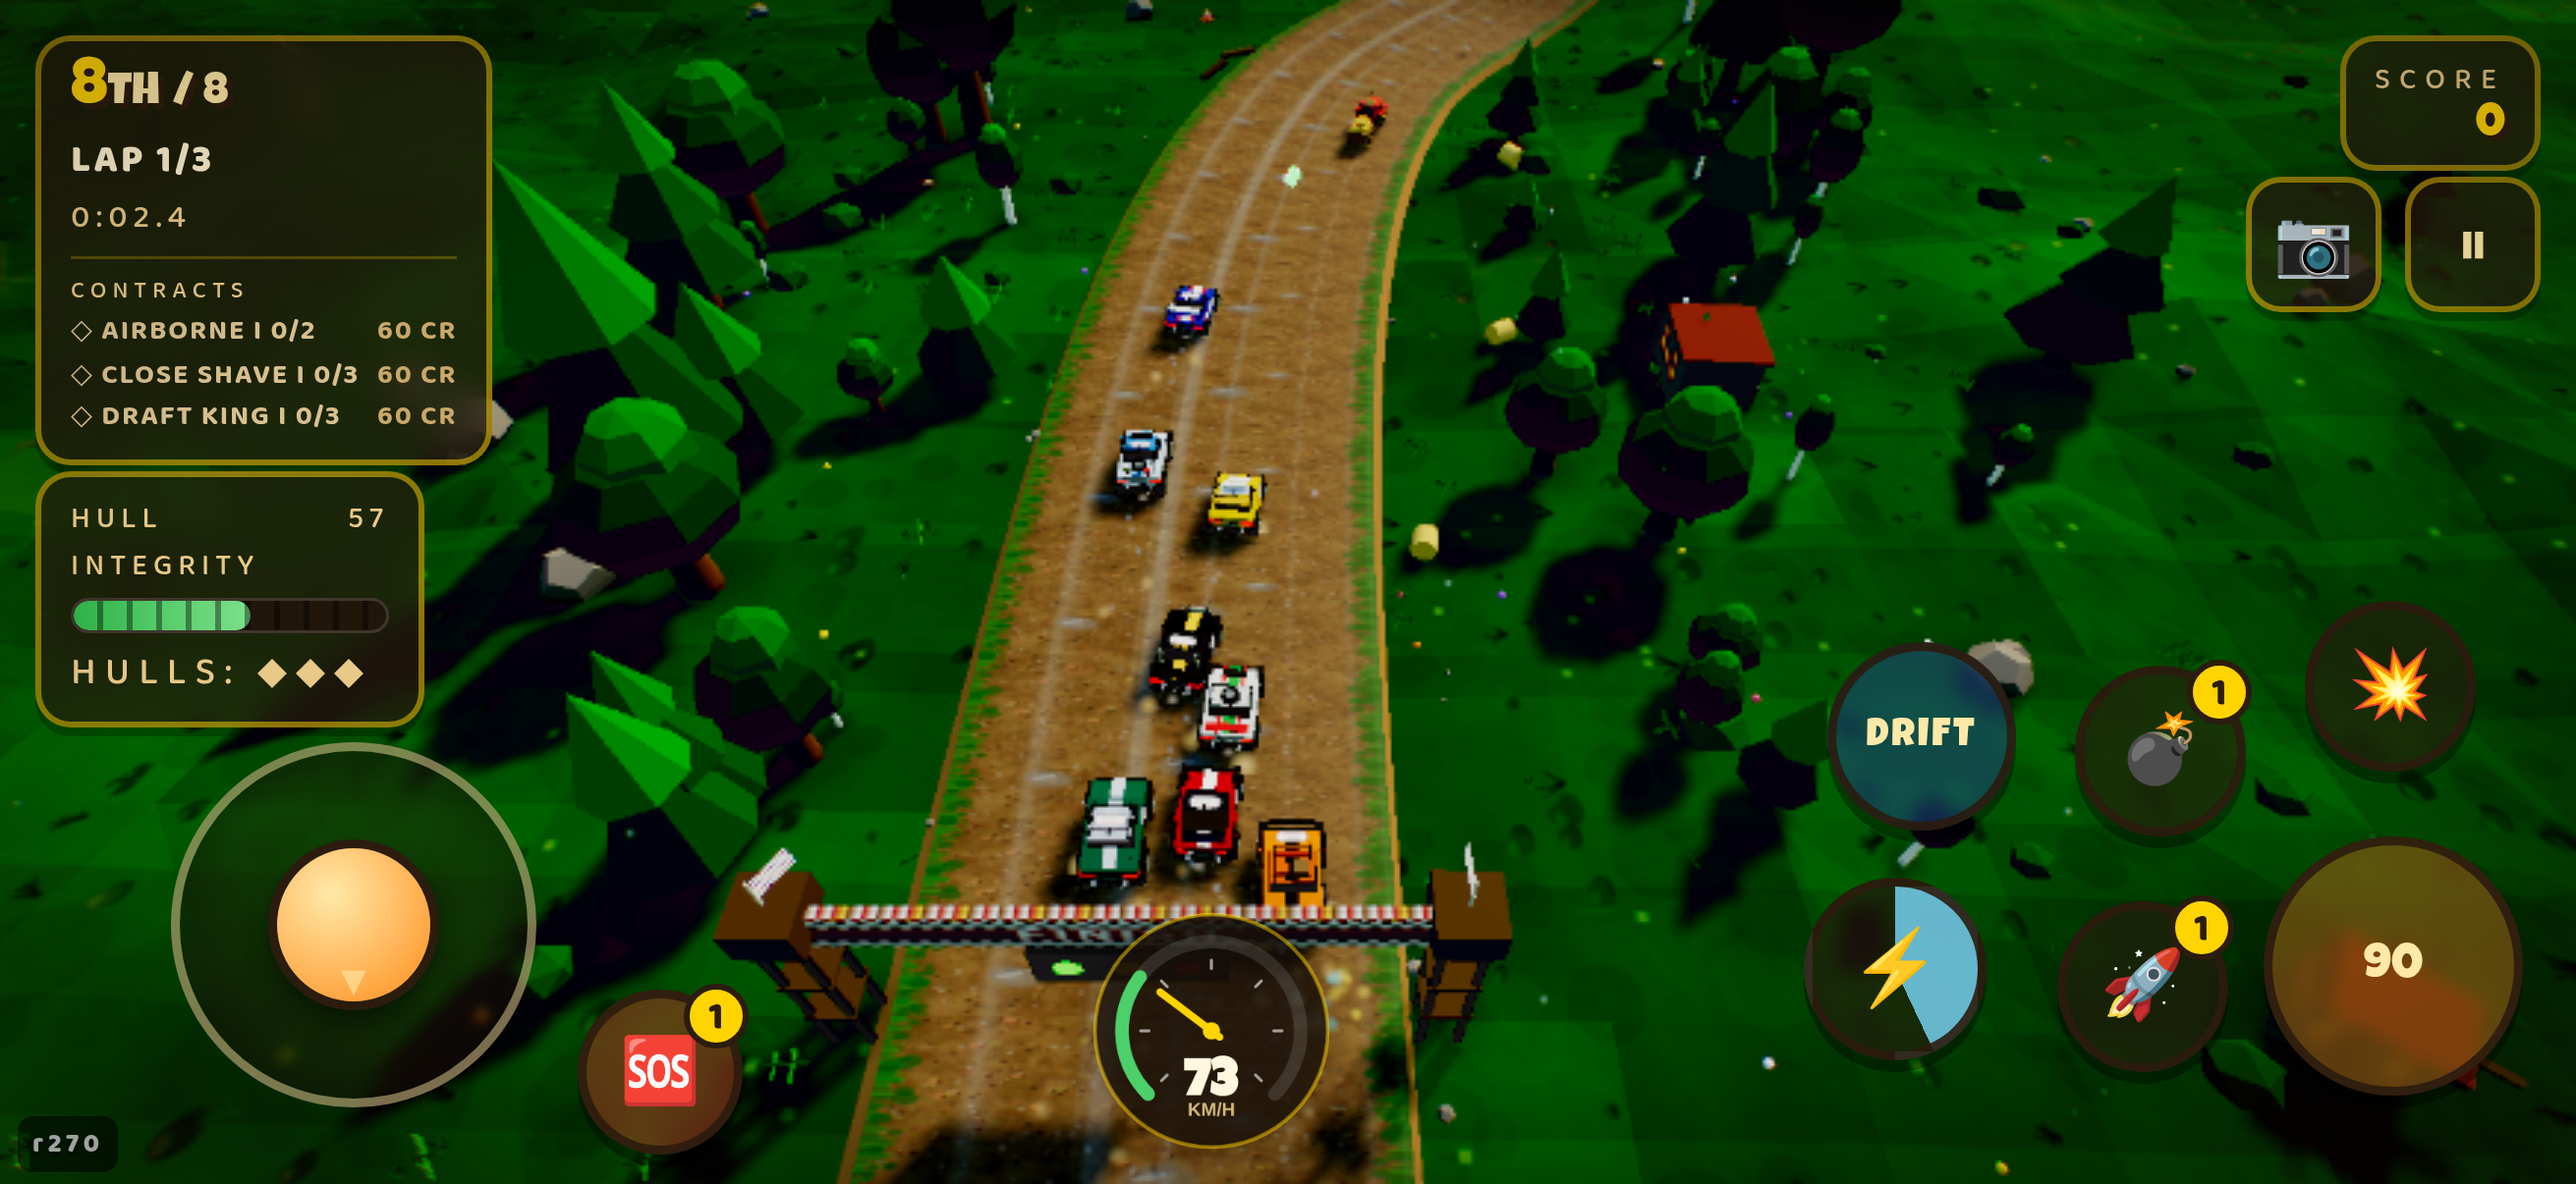
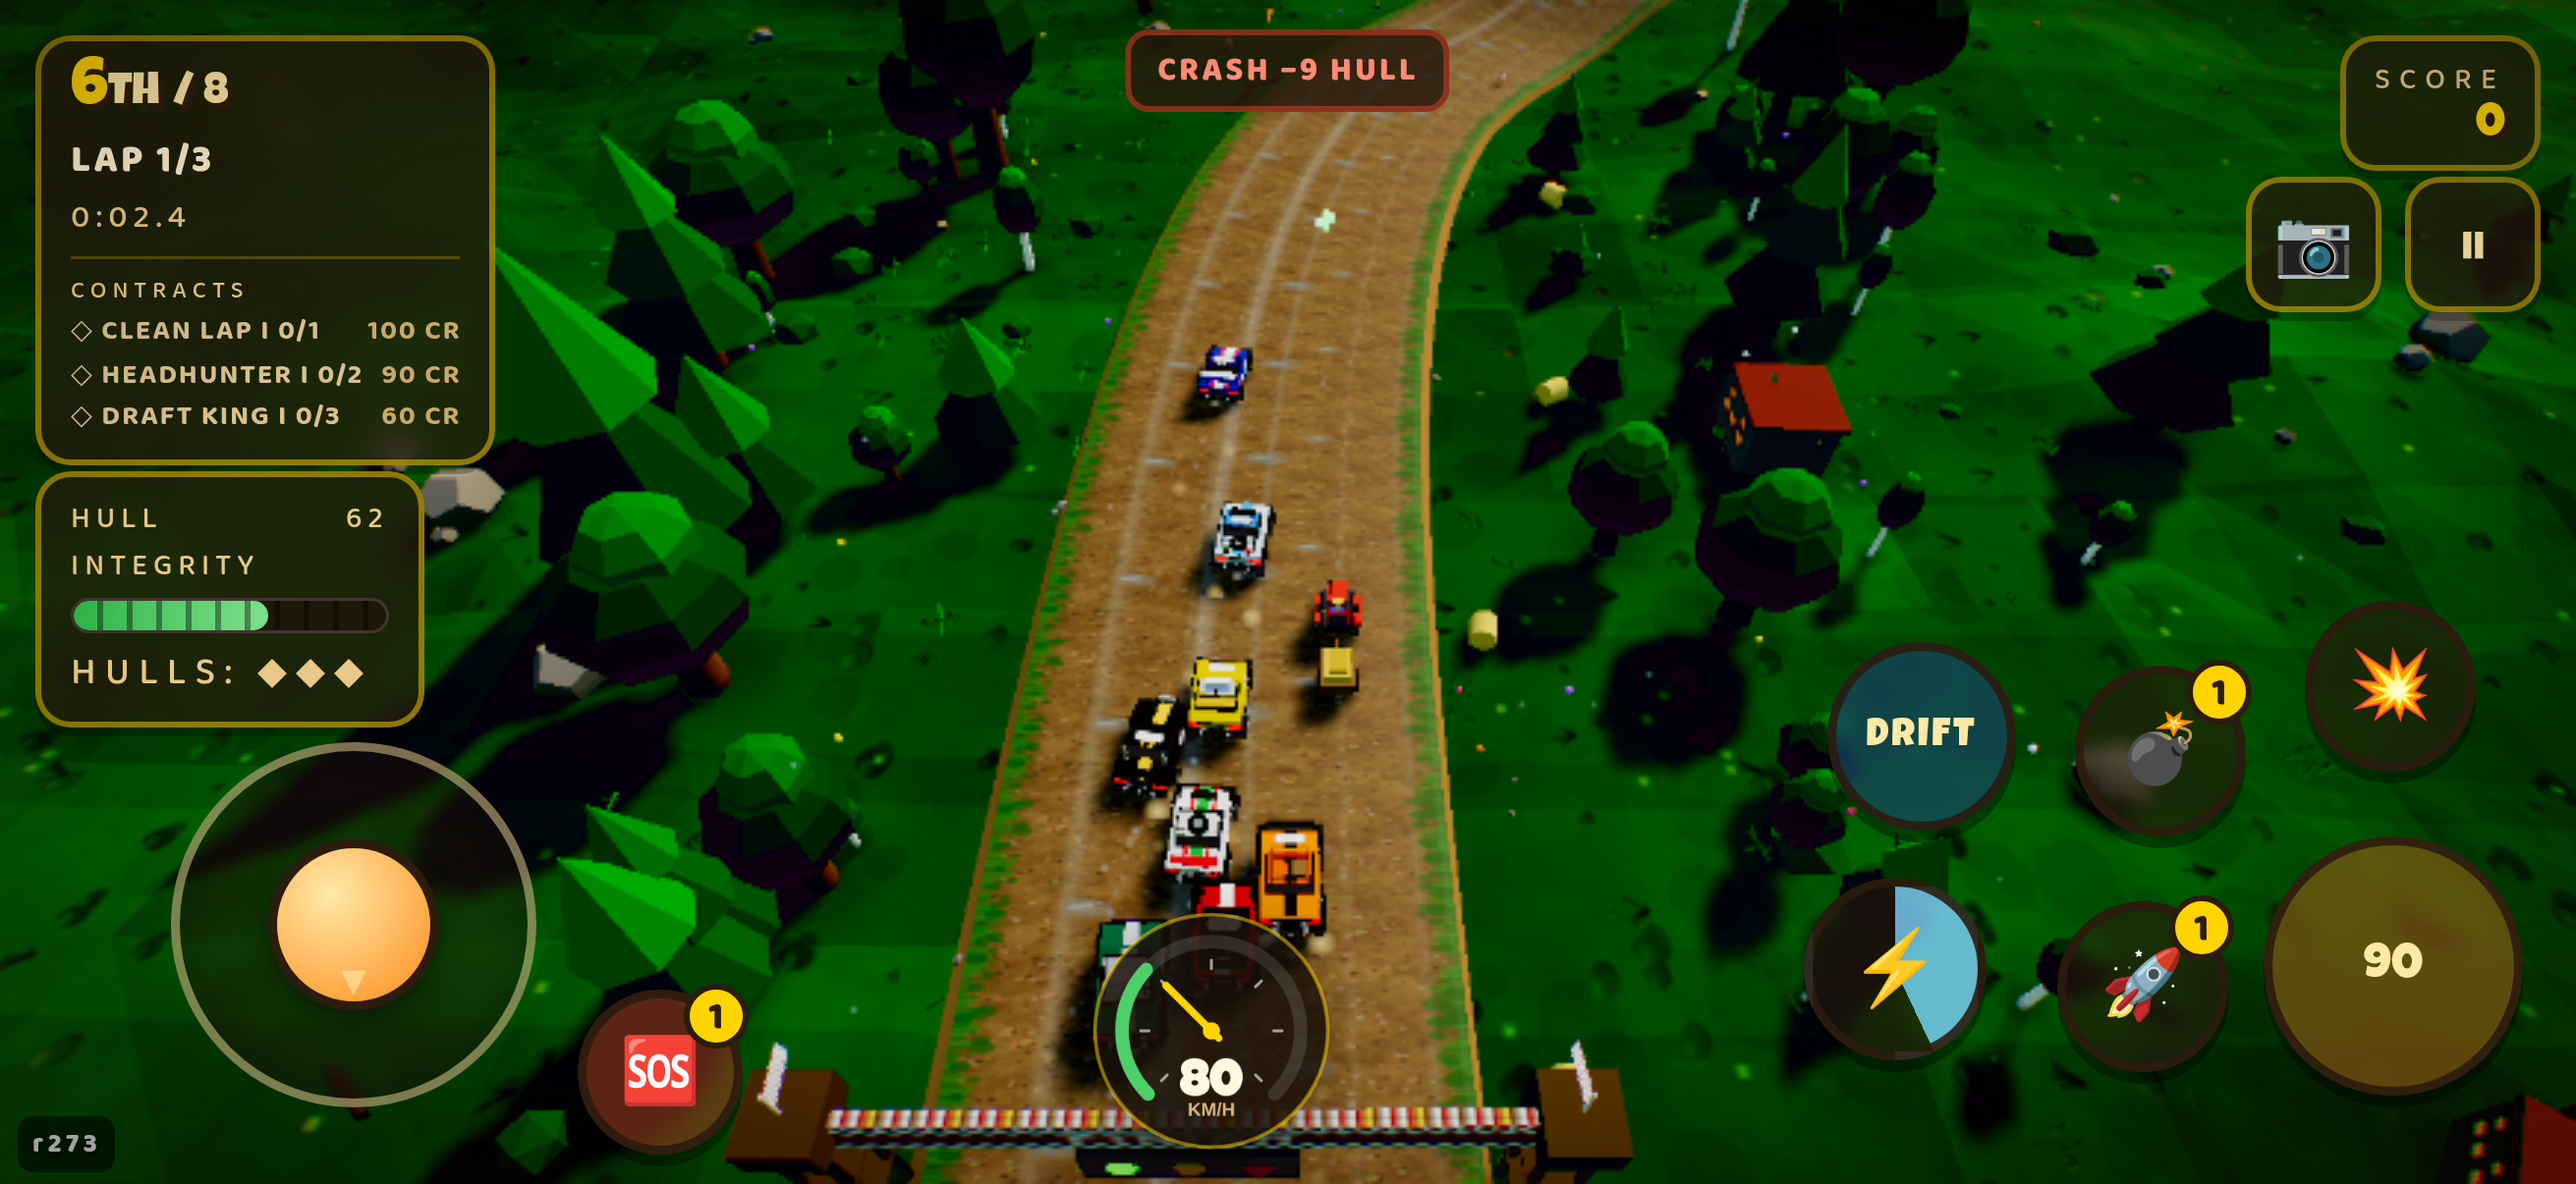
undercity: the start-bowl berm holds racers in — the roam exemption never said who it was for
The r273 phone shot reproduced: UNDERCITY's start bowl runs a 1.7 u berm
for ~40 samples both sides, under the cliff clamp's 2.5 exemption that was
written so free-roamers can drive out — and a racing car went through it
too, then coasted to a stop on the black apron where no automatic net
fires without the throttle held (deliberate) and only SOS brings you back.
One clause closes the exit: the berm exemption is now roam-only. Racers
meet the visible knee-high stone as a wall; roamers still drive out.

bermtest.mjs pins both directions and joins gates.mjs. Verified: race
carve-out held at lat 9.6 (was 74, stranded), roam still exits at 42.4;
invisible-walls 13/13, mountainrun 21/21, unstuck 9/9, roam green; all six
cliffWalls worlds lap at their r271 baselines. test-shortcut's 2 failures
reproduce identically on pristine origin/main — pre-existing on the base,
recorded in HANDOVER, not touched here.

Claude-Session: https://claude.ai/code/session_012Nfmy81xQ6fbthufAstGfz

diff --git a/src/vehicles.js b/src/vehicles.js
@@ -2327,10 +2327,21 @@ export class Car {
       if (this !== gm.player) wallHere = true; // AI safety net, all levels
       else if (cliffy) {
         // canyon: rock walls are solid — except the low berm near the start
-        // bowl, where the cliffs open up and free-roamers can drive out
+        // bowl, where the cliffs open up and free-roamers can drive out.
+        //
+        // FREE-ROAMERS. The exemption never said so, and a RACING car went
+        // through it too: UNDERCITY's start bowl runs a 1.7 u berm for ~40
+        // samples on BOTH sides, so a racer carving wide off the line — or
+        // shoved wide by the pack — left the trench entirely and rolled to a
+        // stop on the black apron, 8th of 8 at 16 s (the r273 phone shot).
+        // With the throttle released no automatic net fires out there, on
+        // purpose, so the exit is the thing to close: in a road event the
+        // berm is a wall like any other. It is visible knee-high stone, so
+        // holding a racer at it is not an invisible wall. The cliffSetback
+        // and past-the-outer-face carve-outs below still apply after this.
         const prof = t._cliffProfile ? t._cliffProfile(this.trackIndex, fside) : null;
         cliffProf = prof;
-        wallHere = !prof || prof.h > 2.5;
+        wallHere = !prof || prof.h > 2.5 || !freeRoam;
         // deep-valley worlds (cliffSetback) stand their faces well off the
         // verge: the player may roam the valley floor and only the ROCK is
         // solid - off-road slowness is the boundary in between

diff --git a/HANDOVER.md b/HANDOVER.md
@@ -3807,3 +3807,55 @@ Worth reading the buffers rather than skimming them: portrait TITLE renders at
 it is `_autoQuality` dropping the pixel ratio under load, and the gate passes
 both because it checks the box against the SCREEN and the buffer's ASPECT
 against the box — never the buffer's size against anything.
+
+## r273-line — THE PHONE SHOT ON THE BLACK APRON, AND THE EXEMPTION THAT NEVER SAID WHO IT WAS FOR
+
+A phone shot off the live r273 build: 8th of 8 at 0:16.7, 3 km/h, hull 77,
+the car parked on a green ledge above a carriageway with black nothing
+beside it, the stick at rest. World identified by texture match against
+overhead probe shots: **UNDERCITY SLIPSTREAM** — the terraced olive trench
+walls, the mottled slab roadway, the marker posts on the rims.
+
+### REPRODUCED, THEN CLOSED AT THE EXIT
+`_cliffProfile` around the start bowl reads h = 1.7 for ~40 samples on BOTH
+sides — under the clamp's 2.5 exemption, written "so free-roamers can drive
+out" and applied to everyone. A racing car carving wide off the line (or
+shoved wide — the grid is eight cars and missiles fly from the first
+seconds) left the trench at full speed. Then, with the throttle released,
+it coasts to lat 74, sinks to the apron at y −4.1, and sits for ever:
+- the wedge net anchors displacement WHILE THE THROTTLE IS HELD (r273's
+  own fix), so a player who gives up pushing is invisible to it;
+- the lost net was deliberately narrowed to broken states (under terrain,
+  NaN) because yanking wanderers back "read as the game resetting you";
+- SOS works out there — the phone player had a charge in hand, unused.
+All three of those are design decisions with reasons; the defect was the
+EXIT, so the fix is one clause: `wallHere = !prof || prof.h > 2.5 ||
+!freeRoam` — the berm exemption is now roam-only. Racers meet a visible
+knee-high stone berm as a wall; roamers still drive out over it.
+
+### MEASURED, BEFORE AND AFTER (tools-scratch/bermtest.mjs, now a gate)
+    race  carve-out at sample 10, both sides:  lat 12.6 -> 74 stranded  BEFORE
+                                               lat 9.6, held at the lim AFTER
+    roam  same manoeuvre:                      lat 42.4 out             both
+The gate pins both directions and is registered in gates.mjs. Regression
+sweep on the fix: test-invisible-walls 13/13 (the berm is visible stone —
+holding a racer at it is not an invisible wall), test-mountainrun 21/21
+(OLIVE COAST control still open), test-unstuck 9/9, test-roam all green.
+The cliffSetback valley-floor carve-out and the past-the-outer-face roam
+rule sit AFTER the changed line and are untouched: CANYON RUN and LAGUNA
+SECA racers still roam their valley floors.
+
+### FOUND RED ON THE BASE, NOT TOUCHED
+`tests/test-shortcut.mjs` fails 2/6 on PRISTINE origin/main (r273) exactly
+as on this branch: FURKA RIDGE's designed 30 u cut over the bank at sample
+170 now stops at 0.7 m/s with "HIT ROCK −59 HULL". Not this change's doing
+— reproduced identically on the untouched worktree — but it means the live
+build has lost that world's crossover cut. Whoever owns the massif/obstacle
+line should look; the failing assertion names the exact sample.
+
+### WORLD-ID PROBE
+Phone shots rarely name their world. tools-scratch/nearsamples.mjs answers
+"what stands at sample S"; this round's texture-match trick — overhead shot
+at F=0.04 of each candidate, compared against the report — identified
+UNDERCITY in two rounds of probe shots. The probe is disposable; the trick
+is worth remembering.
